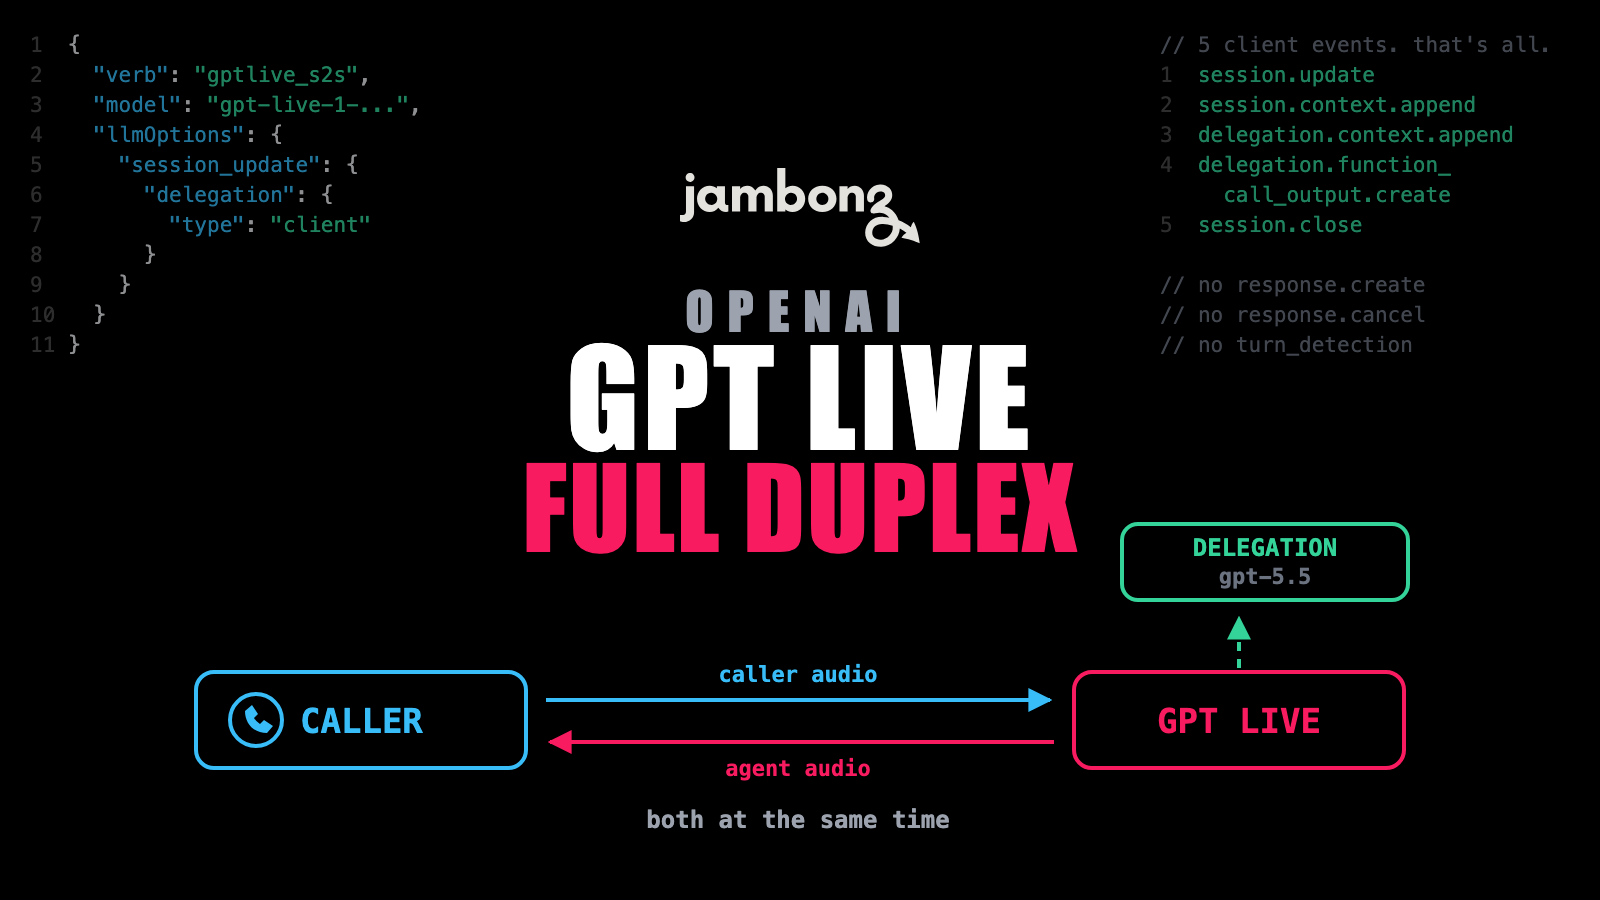
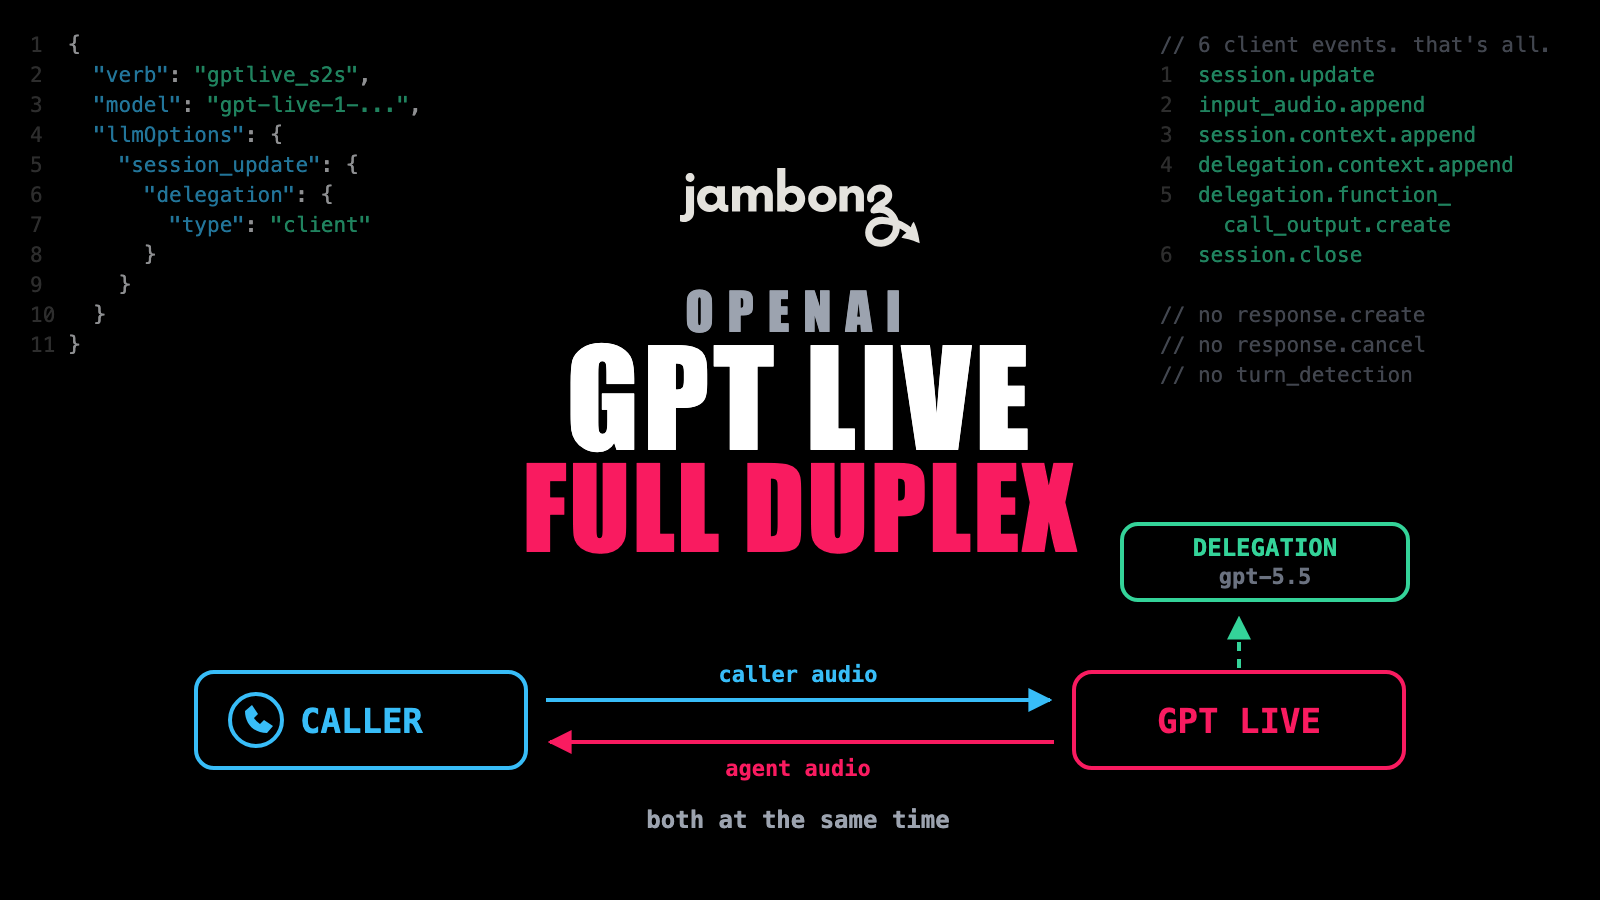
docs: GPT Live accepts six client events, not five
OpenAI's Event API reference lists six client events; ours omitted
input_audio.append. The five-event count came from mod_gptlive_s2s, where
caller audio is streamed outside the client-event API, but against OpenAI's
published list "exactly five" is simply wrong. Fixed in the FAQ, the prose,
and the cover art.

Also corrects the surrounding claim. "A lot of the controls you're used to"
is not accurate: of the nine s2s vendors jambonz supports, six (GPT Live,
Ultravox, Deepgram Voice Agent, ElevenLabs, AssemblyAI, Gemini Live) have no
turn-cancel control at all. Only OpenAI Realtime, xAI and Qwen do, and those
three all speak the Realtime dialect. Scoped the sentence to an OpenAI
Realtime developer, which is who the contrast actually applies to.

Changed region(s): [[0.75, 0.0933, 0.9375, 0.4356]]

diff --git a/src/content/blog/openai-gpt-live-support-in-jambonz/index.md b/src/content/blog/openai-gpt-live-support-in-jambonz/index.md
@@ -11,7 +11,7 @@ faq:
   - question: "Do I need special access from OpenAI to use GPT Live?"
     answer: "While OpenAI runs GPT Live as a limited-access alpha, yes: your OpenAI API key has to be enrolled in their Early Access Program. An unenrolled key completes the WebSocket handshake and is then refused at the application layer with 'Voice session access denied', which can look like a jambonz problem but isn't. jambonz support is finished and shipping either way, so nothing changes on our side when OpenAI opens access up."
   - question: "Is GPT Live the same API as the OpenAI Realtime API?"
-    answer: "No. Both are served from api.openai.com, but GPT Live is a different wire protocol on a different endpoint (/v1/live rather than /v1/realtime) with a different event vocabulary. GPT Live accepts exactly five client events: session.update, session.context.append, delegation.context.append, delegation.function_call_output.create and session.close. There is no response.create, no response.cancel, no input_audio_buffer.append and no turn_detection configuration. In jambonz they are separate vendors ('gptlive' and 'openai') and separate verbs, gptlive_s2s and openai_s2s."
+    answer: "No. Both are served from api.openai.com, but GPT Live is a different wire protocol on a different endpoint (/v1/live rather than /v1/realtime) with a different event vocabulary. GPT Live accepts exactly six client events: session.update, input_audio.append, session.context.append, delegation.context.append, delegation.function_call_output.create and session.close. There is no response.create, no response.cancel and no turn_detection configuration, and caller audio arrives on input_audio.append rather than the Realtime API's input_audio_buffer.append. In jambonz they are separate vendors ('gptlive' and 'openai') and separate verbs, gptlive_s2s and openai_s2s."
   - question: "How do I migrate a jambonz OpenAI Realtime app to GPT Live?"
     answer: "Change vendor to 'gptlive', set model on the verb itself (not inside session_update — the model travels in the connection URL), drop response_create entirely, drop turn_detection and audio format settings, and move your tools from session_update.tools to session_update.delegation.responses.tools with delegation.type set to 'responses'. Your verb, your hooks, and how your application is put together are otherwise unchanged."
   - question: "How does the agent speak first if there is no response.create?"
@@ -61,10 +61,10 @@ If you build phone [agents](https://jambonz.org/blog/voice-agent-handoff) for a 
 silence after "let me look that up for you" is the single most common complaint about voice
 AI, and GPT Live's answer is architectural rather than a prompt trick.
 
-The flip side of the model driving the conversation is that a lot of the controls you're
-used to reaching for simply aren't there. There is no `response.create` to solicit a turn, no
-`response.cancel` to interrupt one, and no `turn_detection` to tune. GPT Live accepts
-exactly five client events. That's a shift in how you write the application, which is
+The flip side of the model driving the conversation is that a lot of the controls an
+OpenAI Realtime developer reaches for simply aren't there. There is no `response.create` to
+solicit a turn, no `response.cancel` to interrupt one, and no `turn_detection` to tune. GPT
+Live accepts exactly six client events, one of which is just audio. That's a shift in how you write the application, which is
 why we treated it as a separate vendor rather than a mode of the [existing OpenAI
 integration](https://docs.jambonz.org/guides/features/bring-your-own-llm/open-ai).
 
